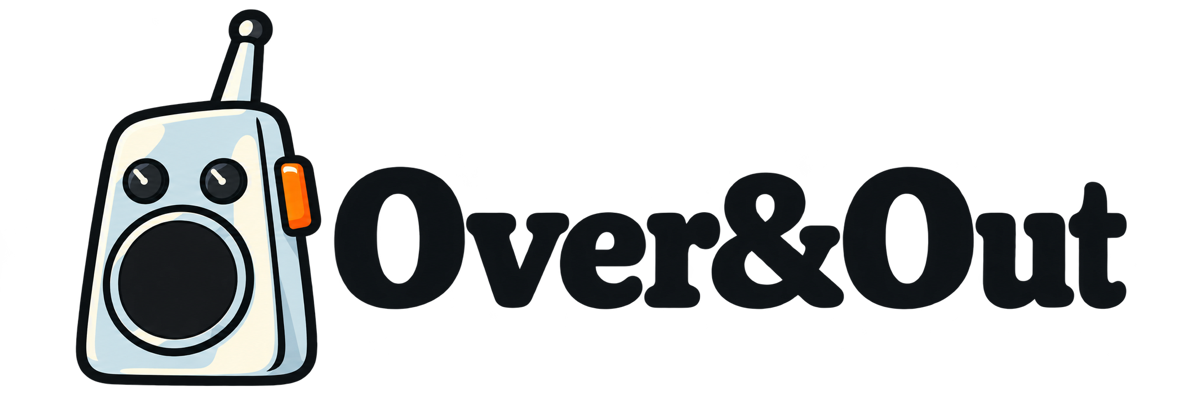
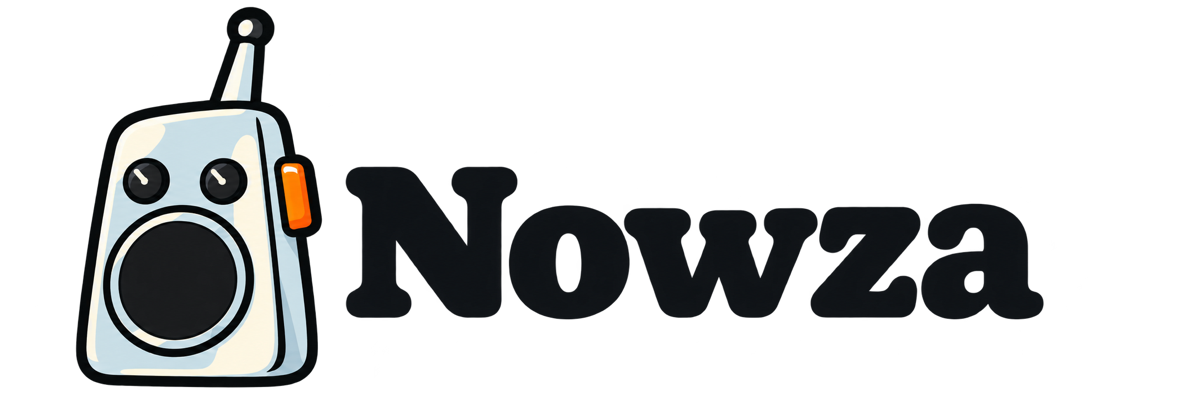
Update name-bearing artwork to Nowza

diff --git a/art/characters/preview.html b/art/characters/preview.html
@@ -1,3 +1,3 @@
-<!doctype html><html lang="en"><meta charset="utf-8"><meta name="viewport" content="width=device-width,initial-scale=1"><title>Over&Out character collection</title><style>
+<!doctype html><html lang="en"><meta charset="utf-8"><meta name="viewport" content="width=device-width,initial-scale=1"><title>Nowza character collection</title><style>
 *{box-sizing:border-box}body{margin:0;background:#fff6df;color:#10161b;font:16px system-ui,sans-serif}header{padding:36px;background:#272d50;color:#fff6df}h1{margin:0 0 12px}header p{max-width:850px;line-height:1.5}main{display:grid;grid-template-columns:repeat(auto-fit,minmax(260px,1fr));gap:24px;padding:28px}article{padding:20px;border:1px solid #d6cfbc;border-radius:16px;background:#fff}h2{font-size:20px;margin:0 0 16px}.master{background:repeating-conic-gradient(#f0f0f0 0% 25%,#fff 0% 50%) 0/20px 20px;border-radius:8px}.master img{display:block;width:100%;aspect-ratio:1;object-fit:contain}.icons{display:flex;align-items:center;justify-content:space-around;gap:10px;margin:20px 0}.phone{width:88px;border-radius:22%}.watch{width:88px;border-radius:50%}.small{width:48px;height:48px;border-radius:22%}a{color:#82400b}article p{font-size:13px;line-height:1.8}button{padding:9px 16px;background:#fff6df;color:#10161b;border:0;border-radius:8px;cursor:pointer}body.dark .master{background:#272d50}footer{padding:28px}
-</style><header><h1>Over&Out · 18 characters</h1><p>Transparent artwork, iPhone and circular Watch icon previews, and actual 48 px icons. Icon masks here are visual approximations. All files are local.</p><button onclick="document.body.classList.toggle('dark')">Toggle artwork background</button></header><main><article><h2>01 · Porcelain</h2><div class="master"><img src="01-porcelain/master.png" alt="warm light ivory housing, plain original knob eyes"></div><div class="icons"><img class="phone" src="01-porcelain/icons/icon-1024.png" alt="iPhone preview"><img class="watch" src="01-porcelain/icons/icon-1024.png" alt="Watch circular preview"><img class="small" src="01-porcelain/icons/exports/icon-48.png" alt="48 pixel preview"></div><p><a href="01-porcelain/master.png">Transparent master</a> · <a href="01-porcelain/merch/color-300dpi.png">Print PNG</a> · <a href="01-porcelain/icons/icon-1024.png">Icon</a></p></article><article><h2>02 · Honey</h2><div class="master"><img src="02-honey/master.png" alt="warm golden honey tan housing, plain original knob eyes"></div><div class="icons"><img class="phone" src="02-honey/icons/icon-1024.png" alt="iPhone preview"><img class="watch" src="02-honey/icons/icon-1024.png" alt="Watch circular preview"><img class="small" src="02-honey/icons/exports/icon-48.png" alt="48 pixel preview"></div><p><a href="02-honey/master.png">Transparent master</a> · <a href="02-honey/merch/color-300dpi.png">Print PNG</a> · <a href="02-honey/icons/icon-1024.png">Icon</a></p></article><article><h2>03 · Cocoa</h2><div class="master"><img src="03-cocoa/master.png" alt="rich deep warm cocoa brown housing, plain original knob eyes"></div><div class="icons"><img class="phone" src="03-cocoa/icons/icon-1024.png" alt="iPhone preview"><img class="watch" src="03-cocoa/icons/icon-1024.png" alt="Watch circular preview"><img class="small" src="03-cocoa/icons/exports/icon-48.png" alt="48 pixel preview"></div><p><a href="03-cocoa/master.png">Transparent master</a> · <a href="03-cocoa/merch/color-300dpi.png">Print PNG</a> · <a href="03-cocoa/icons/icon-1024.png">Icon</a></p></article><article><h2>04 · Bow &amp; lashes</h2><div class="master"><img src="04-bow-lashes/master.png" alt="porcelain ivory housing, muted rose pink bow on antenna and long eyelashes"></div><div class="icons"><img class="phone" src="04-bow-lashes/icons/icon-1024.png" alt="iPhone preview"><img class="watch" src="04-bow-lashes/icons/icon-1024.png" alt="Watch circular preview"><img class="small" src="04-bow-lashes/icons/exports/icon-48.png" alt="48 pixel preview"></div><p><a href="04-bow-lashes/master.png">Transparent master</a> · <a href="04-bow-lashes/merch/color-300dpi.png">Print PNG</a> · <a href="04-bow-lashes/icons/icon-1024.png">Icon</a></p></article><article><h2>05 · Bunny</h2><div class="master"><img src="05-bunny/master.png" alt="porcelain ivory housing, two rabbit-ear antennas with muted rose pink interiors, two ivory buck teeth descending into round speaker mouth"></div><div class="icons"><img class="phone" src="05-bunny/icons/icon-1024.png" alt="iPhone preview"><img class="watch" src="05-bunny/icons/icon-1024.png" alt="Watch circular preview"><img class="small" src="05-bunny/icons/exports/icon-48.png" alt="48 pixel preview"></div><p><a href="05-bunny/master.png">Transparent master</a> · <a href="05-bunny/merch/color-300dpi.png">Print PNG</a> · <a href="05-bunny/icons/icon-1024.png">Icon</a></p></article><article><h2>06 · Bookworm</h2><div class="master"><img src="06-bookworm/master.png" alt="COCOA dark brown housing, round indigo eyeglasses and small orange bowtie centered at bottom of speaker"></div><div class="icons"><img class="phone" src="06-bookworm/icons/icon-1024.png" alt="iPhone preview"><img class="watch" src="06-bookworm/icons/icon-1024.png" alt="Watch circular preview"><img class="small" src="06-bookworm/icons/exports/icon-48.png" alt="48 pixel preview"></div><p><a href="06-bookworm/master.png">Transparent master</a> · <a href="06-bookworm/merch/color-300dpi.png">Print PNG</a> · <a href="06-bookworm/icons/icon-1024.png">Icon</a></p></article><article><h2>07 · Mustachio</h2><div class="master"><img src="07-mustachio/master.png" alt="porcelain ivory housing, bold curled black mustache above speaker"></div><div class="icons"><img class="phone" src="07-mustachio/icons/icon-1024.png" alt="iPhone preview"><img class="watch" src="07-mustachio/icons/icon-1024.png" alt="Watch circular preview"><img class="small" src="07-mustachio/icons/exports/icon-48.png" alt="48 pixel preview"></div><p><a href="07-mustachio/master.png">Transparent master</a> · <a href="07-mustachio/merch/color-300dpi.png">Print PNG</a> · <a href="07-mustachio/icons/icon-1024.png">Icon</a></p></article><article><h2>08 · Tough guy</h2><div class="master"><img src="08-tough-guy/master.png" alt="HONEY golden tan housing, thick comically angry angled eyebrows"></div><div class="icons"><img class="phone" src="08-tough-guy/icons/icon-1024.png" alt="iPhone preview"><img class="watch" src="08-tough-guy/icons/icon-1024.png" alt="Watch circular preview"><img class="small" src="08-tough-guy/icons/exports/icon-48.png" alt="48 pixel preview"></div><p><a href="08-tough-guy/master.png">Transparent master</a> · <a href="08-tough-guy/merch/color-300dpi.png">Print PNG</a> · <a href="08-tough-guy/icons/icon-1024.png">Icon</a></p></article><article><h2>09 · Manga</h2><div class="master"><img src="09-manga/master.png" alt="porcelain ivory housing, very large tall oval manga eyes with several bright ivory highlights and stars, filling upper face, as large as approved sheet"></div><div class="icons"><img class="phone" src="09-manga/icons/icon-1024.png" alt="iPhone preview"><img class="watch" src="09-manga/icons/icon-1024.png" alt="Watch circular preview"><img class="small" src="09-manga/icons/exports/icon-48.png" alt="48 pixel preview"></div><p><a href="09-manga/master.png">Transparent master</a> · <a href="09-manga/merch/color-300dpi.png">Print PNG</a> · <a href="09-manga/icons/icon-1024.png">Icon</a></p></article><article><h2>10 · Cool cat</h2><div class="master"><img src="10-cool-cat/master.png" alt="COCOA dark brown housing, chunky dark indigo sunglasses; no cat ears"></div><div class="icons"><img class="phone" src="10-cool-cat/icons/icon-1024.png" alt="iPhone preview"><img class="watch" src="10-cool-cat/icons/icon-1024.png" alt="Watch circular preview"><img class="small" src="10-cool-cat/icons/exports/icon-48.png" alt="48 pixel preview"></div><p><a href="10-cool-cat/master.png">Transparent master</a> · <a href="10-cool-cat/merch/color-300dpi.png">Print PNG</a> · <a href="10-cool-cat/icons/icon-1024.png">Icon</a></p></article><article><h2>11 · Fox</h2><div class="master"><img src="11-fox/master.png" alt="HONEY golden tan housing, tall bushy honey fox tail with ivory tip IN PLACE OF antenna at top right, pointed fox ears at top corners, small black button nose, ivory cheek tufts. Radio silhouette remains"></div><div class="icons"><img class="phone" src="11-fox/icons/icon-1024.png" alt="iPhone preview"><img class="watch" src="11-fox/icons/icon-1024.png" alt="Watch circular preview"><img class="small" src="11-fox/icons/exports/icon-48.png" alt="48 pixel preview"></div><p><a href="11-fox/master.png">Transparent master</a> · <a href="11-fox/merch/color-300dpi.png">Print PNG</a> · <a href="11-fox/icons/icon-1024.png">Icon</a></p></article><article><h2>12 · Hi-fi</h2><div class="master"><img src="12-hi-fi/master.png" alt="HONEY golden tan housing with orange and indigo retro headphones over top and sides, original antenna visible"></div><div class="icons"><img class="phone" src="12-hi-fi/icons/icon-1024.png" alt="iPhone preview"><img class="watch" src="12-hi-fi/icons/icon-1024.png" alt="Watch circular preview"><img class="small" src="12-hi-fi/icons/exports/icon-48.png" alt="48 pixel preview"></div><p><a href="12-hi-fi/master.png">Transparent master</a> · <a href="12-hi-fi/merch/color-300dpi.png">Print PNG</a> · <a href="12-hi-fi/icons/icon-1024.png">Icon</a></p></article><article><h2>13 · Frankenstein</h2><div class="master"><img src="13-frankenstein/master.png" alt="muted sage green housing, stitched line across forehead, silver bolts sticking out of lower sides. Friendly cartoon"></div><div class="icons"><img class="phone" src="13-frankenstein/icons/icon-1024.png" alt="iPhone preview"><img class="watch" src="13-frankenstein/icons/icon-1024.png" alt="Watch circular preview"><img class="small" src="13-frankenstein/icons/exports/icon-48.png" alt="48 pixel preview"></div><p><a href="13-frankenstein/master.png">Transparent master</a> · <a href="13-frankenstein/merch/color-300dpi.png">Print PNG</a> · <a href="13-frankenstein/icons/icon-1024.png">Icon</a></p></article><article><h2>14 · Dracula</h2><div class="master"><img src="14-dracula/master.png" alt="PORCELAIN ivory housing, dark indigo eyeshadow and angled brows, two pointed ivory vampire fangs descending into round speaker mouth"></div><div class="icons"><img class="phone" src="14-dracula/icons/icon-1024.png" alt="iPhone preview"><img class="watch" src="14-dracula/icons/icon-1024.png" alt="Watch circular preview"><img class="small" src="14-dracula/icons/exports/icon-48.png" alt="48 pixel preview"></div><p><a href="14-dracula/master.png">Transparent master</a> · <a href="14-dracula/merch/color-300dpi.png">Print PNG</a> · <a href="14-dracula/icons/icon-1024.png">Icon</a></p></article><article><h2>15 · Morticia</h2><div class="master"><img src="15-morticia/master.png" alt="PORCELAIN ivory housing, lots of long center-parted flowing dark black hair wrapping both sides and trailing at base, eyelashes and subtle indigo eyeshadow, antenna peeking out above hair"></div><div class="icons"><img class="phone" src="15-morticia/icons/icon-1024.png" alt="iPhone preview"><img class="watch" src="15-morticia/icons/icon-1024.png" alt="Watch circular preview"><img class="small" src="15-morticia/icons/exports/icon-48.png" alt="48 pixel preview"></div><p><a href="15-morticia/master.png">Transparent master</a> · <a href="15-morticia/merch/color-300dpi.png">Print PNG</a> · <a href="15-morticia/icons/icon-1024.png">Icon</a></p></article><article><h2>16 · Bow &amp; lashes · Honey</h2><div class="master"><img src="16-bow-lashes-honey/master.png" alt="honey golden tan housing, muted rose pink bow on antenna and long eyelashes"></div><div class="icons"><img class="phone" src="16-bow-lashes-honey/icons/icon-1024.png" alt="iPhone preview"><img class="watch" src="16-bow-lashes-honey/icons/icon-1024.png" alt="Watch circular preview"><img class="small" src="16-bow-lashes-honey/icons/exports/icon-48.png" alt="48 pixel preview"></div><p><a href="16-bow-lashes-honey/master.png">Transparent master</a> · <a href="16-bow-lashes-honey/merch/color-300dpi.png">Print PNG</a> · <a href="16-bow-lashes-honey/icons/icon-1024.png">Icon</a></p></article><article><h2>17 · Bow &amp; lashes · Cocoa</h2><div class="master"><img src="17-bow-lashes-cocoa/master.png" alt="rich cocoa brown housing, muted rose pink bow on antenna and long eyelashes"></div><div class="icons"><img class="phone" src="17-bow-lashes-cocoa/icons/icon-1024.png" alt="iPhone preview"><img class="watch" src="17-bow-lashes-cocoa/icons/icon-1024.png" alt="Watch circular preview"><img class="small" src="17-bow-lashes-cocoa/icons/exports/icon-48.png" alt="48 pixel preview"></div><p><a href="17-bow-lashes-cocoa/master.png">Transparent master</a> · <a href="17-bow-lashes-cocoa/merch/color-300dpi.png">Print PNG</a> · <a href="17-bow-lashes-cocoa/icons/icon-1024.png">Icon</a></p></article><article><h2>18 · Pirate</h2><div class="master"><img src="18-pirate/master.png" alt="honey housing, black eyepatch on the viewer-right eye and a little Jolly Roger flying from the antenna"></div><div class="icons"><img class="phone" src="18-pirate/icons/icon-1024.png" alt="iPhone preview"><img class="watch" src="18-pirate/icons/icon-1024.png" alt="Watch circular preview"><img class="small" src="18-pirate/icons/exports/icon-48.png" alt="48 pixel preview"></div><p><a href="18-pirate/master.png">Transparent master</a> · <a href="18-pirate/merch/color-300dpi.png">Print PNG</a> · <a href="18-pirate/icons/icon-1024.png">Icon</a></p></article></main><footer><a href="README.md">Usage and print limits</a> · <a href="reference/approved-lineup.png">Approved sketch lineup</a></footer></html>
+</style><header><h1>Nowza · 18 characters</h1><p>Transparent artwork, iPhone and circular Watch icon previews, and actual 48 px icons. Icon masks here are visual approximations. All files are local.</p><button onclick="document.body.classList.toggle('dark')">Toggle artwork background</button></header><main><article><h2>01 · Porcelain</h2><div class="master"><img src="01-porcelain/master.png" alt="warm light ivory housing, plain original knob eyes"></div><div class="icons"><img class="phone" src="01-porcelain/icons/icon-1024.png" alt="iPhone preview"><img class="watch" src="01-porcelain/icons/icon-1024.png" alt="Watch circular preview"><img class="small" src="01-porcelain/icons/exports/icon-48.png" alt="48 pixel preview"></div><p><a href="01-porcelain/master.png">Transparent master</a> · <a href="01-porcelain/merch/color-300dpi.png">Print PNG</a> · <a href="01-porcelain/icons/icon-1024.png">Icon</a></p></article><article><h2>02 · Honey</h2><div class="master"><img src="02-honey/master.png" alt="warm golden honey tan housing, plain original knob eyes"></div><div class="icons"><img class="phone" src="02-honey/icons/icon-1024.png" alt="iPhone preview"><img class="watch" src="02-honey/icons/icon-1024.png" alt="Watch circular preview"><img class="small" src="02-honey/icons/exports/icon-48.png" alt="48 pixel preview"></div><p><a href="02-honey/master.png">Transparent master</a> · <a href="02-honey/merch/color-300dpi.png">Print PNG</a> · <a href="02-honey/icons/icon-1024.png">Icon</a></p></article><article><h2>03 · Cocoa</h2><div class="master"><img src="03-cocoa/master.png" alt="rich deep warm cocoa brown housing, plain original knob eyes"></div><div class="icons"><img class="phone" src="03-cocoa/icons/icon-1024.png" alt="iPhone preview"><img class="watch" src="03-cocoa/icons/icon-1024.png" alt="Watch circular preview"><img class="small" src="03-cocoa/icons/exports/icon-48.png" alt="48 pixel preview"></div><p><a href="03-cocoa/master.png">Transparent master</a> · <a href="03-cocoa/merch/color-300dpi.png">Print PNG</a> · <a href="03-cocoa/icons/icon-1024.png">Icon</a></p></article><article><h2>04 · Bow &amp; lashes</h2><div class="master"><img src="04-bow-lashes/master.png" alt="porcelain ivory housing, muted rose pink bow on antenna and long eyelashes"></div><div class="icons"><img class="phone" src="04-bow-lashes/icons/icon-1024.png" alt="iPhone preview"><img class="watch" src="04-bow-lashes/icons/icon-1024.png" alt="Watch circular preview"><img class="small" src="04-bow-lashes/icons/exports/icon-48.png" alt="48 pixel preview"></div><p><a href="04-bow-lashes/master.png">Transparent master</a> · <a href="04-bow-lashes/merch/color-300dpi.png">Print PNG</a> · <a href="04-bow-lashes/icons/icon-1024.png">Icon</a></p></article><article><h2>05 · Bunny</h2><div class="master"><img src="05-bunny/master.png" alt="porcelain ivory housing, two rabbit-ear antennas with muted rose pink interiors, two ivory buck teeth descending into round speaker mouth"></div><div class="icons"><img class="phone" src="05-bunny/icons/icon-1024.png" alt="iPhone preview"><img class="watch" src="05-bunny/icons/icon-1024.png" alt="Watch circular preview"><img class="small" src="05-bunny/icons/exports/icon-48.png" alt="48 pixel preview"></div><p><a href="05-bunny/master.png">Transparent master</a> · <a href="05-bunny/merch/color-300dpi.png">Print PNG</a> · <a href="05-bunny/icons/icon-1024.png">Icon</a></p></article><article><h2>06 · Bookworm</h2><div class="master"><img src="06-bookworm/master.png" alt="COCOA dark brown housing, round indigo eyeglasses and small orange bowtie centered at bottom of speaker"></div><div class="icons"><img class="phone" src="06-bookworm/icons/icon-1024.png" alt="iPhone preview"><img class="watch" src="06-bookworm/icons/icon-1024.png" alt="Watch circular preview"><img class="small" src="06-bookworm/icons/exports/icon-48.png" alt="48 pixel preview"></div><p><a href="06-bookworm/master.png">Transparent master</a> · <a href="06-bookworm/merch/color-300dpi.png">Print PNG</a> · <a href="06-bookworm/icons/icon-1024.png">Icon</a></p></article><article><h2>07 · Mustachio</h2><div class="master"><img src="07-mustachio/master.png" alt="porcelain ivory housing, bold curled black mustache above speaker"></div><div class="icons"><img class="phone" src="07-mustachio/icons/icon-1024.png" alt="iPhone preview"><img class="watch" src="07-mustachio/icons/icon-1024.png" alt="Watch circular preview"><img class="small" src="07-mustachio/icons/exports/icon-48.png" alt="48 pixel preview"></div><p><a href="07-mustachio/master.png">Transparent master</a> · <a href="07-mustachio/merch/color-300dpi.png">Print PNG</a> · <a href="07-mustachio/icons/icon-1024.png">Icon</a></p></article><article><h2>08 · Tough guy</h2><div class="master"><img src="08-tough-guy/master.png" alt="HONEY golden tan housing, thick comically angry angled eyebrows"></div><div class="icons"><img class="phone" src="08-tough-guy/icons/icon-1024.png" alt="iPhone preview"><img class="watch" src="08-tough-guy/icons/icon-1024.png" alt="Watch circular preview"><img class="small" src="08-tough-guy/icons/exports/icon-48.png" alt="48 pixel preview"></div><p><a href="08-tough-guy/master.png">Transparent master</a> · <a href="08-tough-guy/merch/color-300dpi.png">Print PNG</a> · <a href="08-tough-guy/icons/icon-1024.png">Icon</a></p></article><article><h2>09 · Manga</h2><div class="master"><img src="09-manga/master.png" alt="porcelain ivory housing, very large tall oval manga eyes with several bright ivory highlights and stars, filling upper face, as large as approved sheet"></div><div class="icons"><img class="phone" src="09-manga/icons/icon-1024.png" alt="iPhone preview"><img class="watch" src="09-manga/icons/icon-1024.png" alt="Watch circular preview"><img class="small" src="09-manga/icons/exports/icon-48.png" alt="48 pixel preview"></div><p><a href="09-manga/master.png">Transparent master</a> · <a href="09-manga/merch/color-300dpi.png">Print PNG</a> · <a href="09-manga/icons/icon-1024.png">Icon</a></p></article><article><h2>10 · Cool cat</h2><div class="master"><img src="10-cool-cat/master.png" alt="COCOA dark brown housing, chunky dark indigo sunglasses; no cat ears"></div><div class="icons"><img class="phone" src="10-cool-cat/icons/icon-1024.png" alt="iPhone preview"><img class="watch" src="10-cool-cat/icons/icon-1024.png" alt="Watch circular preview"><img class="small" src="10-cool-cat/icons/exports/icon-48.png" alt="48 pixel preview"></div><p><a href="10-cool-cat/master.png">Transparent master</a> · <a href="10-cool-cat/merch/color-300dpi.png">Print PNG</a> · <a href="10-cool-cat/icons/icon-1024.png">Icon</a></p></article><article><h2>11 · Fox</h2><div class="master"><img src="11-fox/master.png" alt="HONEY golden tan housing, tall bushy honey fox tail with ivory tip IN PLACE OF antenna at top right, pointed fox ears at top corners, small black button nose, ivory cheek tufts. Radio silhouette remains"></div><div class="icons"><img class="phone" src="11-fox/icons/icon-1024.png" alt="iPhone preview"><img class="watch" src="11-fox/icons/icon-1024.png" alt="Watch circular preview"><img class="small" src="11-fox/icons/exports/icon-48.png" alt="48 pixel preview"></div><p><a href="11-fox/master.png">Transparent master</a> · <a href="11-fox/merch/color-300dpi.png">Print PNG</a> · <a href="11-fox/icons/icon-1024.png">Icon</a></p></article><article><h2>12 · Hi-fi</h2><div class="master"><img src="12-hi-fi/master.png" alt="HONEY golden tan housing with orange and indigo retro headphones over top and sides, original antenna visible"></div><div class="icons"><img class="phone" src="12-hi-fi/icons/icon-1024.png" alt="iPhone preview"><img class="watch" src="12-hi-fi/icons/icon-1024.png" alt="Watch circular preview"><img class="small" src="12-hi-fi/icons/exports/icon-48.png" alt="48 pixel preview"></div><p><a href="12-hi-fi/master.png">Transparent master</a> · <a href="12-hi-fi/merch/color-300dpi.png">Print PNG</a> · <a href="12-hi-fi/icons/icon-1024.png">Icon</a></p></article><article><h2>13 · Frankenstein</h2><div class="master"><img src="13-frankenstein/master.png" alt="muted sage green housing, stitched line across forehead, silver bolts sticking out of lower sides. Friendly cartoon"></div><div class="icons"><img class="phone" src="13-frankenstein/icons/icon-1024.png" alt="iPhone preview"><img class="watch" src="13-frankenstein/icons/icon-1024.png" alt="Watch circular preview"><img class="small" src="13-frankenstein/icons/exports/icon-48.png" alt="48 pixel preview"></div><p><a href="13-frankenstein/master.png">Transparent master</a> · <a href="13-frankenstein/merch/color-300dpi.png">Print PNG</a> · <a href="13-frankenstein/icons/icon-1024.png">Icon</a></p></article><article><h2>14 · Dracula</h2><div class="master"><img src="14-dracula/master.png" alt="PORCELAIN ivory housing, dark indigo eyeshadow and angled brows, two pointed ivory vampire fangs descending into round speaker mouth"></div><div class="icons"><img class="phone" src="14-dracula/icons/icon-1024.png" alt="iPhone preview"><img class="watch" src="14-dracula/icons/icon-1024.png" alt="Watch circular preview"><img class="small" src="14-dracula/icons/exports/icon-48.png" alt="48 pixel preview"></div><p><a href="14-dracula/master.png">Transparent master</a> · <a href="14-dracula/merch/color-300dpi.png">Print PNG</a> · <a href="14-dracula/icons/icon-1024.png">Icon</a></p></article><article><h2>15 · Morticia</h2><div class="master"><img src="15-morticia/master.png" alt="PORCELAIN ivory housing, lots of long center-parted flowing dark black hair wrapping both sides and trailing at base, eyelashes and subtle indigo eyeshadow, antenna peeking out above hair"></div><div class="icons"><img class="phone" src="15-morticia/icons/icon-1024.png" alt="iPhone preview"><img class="watch" src="15-morticia/icons/icon-1024.png" alt="Watch circular preview"><img class="small" src="15-morticia/icons/exports/icon-48.png" alt="48 pixel preview"></div><p><a href="15-morticia/master.png">Transparent master</a> · <a href="15-morticia/merch/color-300dpi.png">Print PNG</a> · <a href="15-morticia/icons/icon-1024.png">Icon</a></p></article><article><h2>16 · Bow &amp; lashes · Honey</h2><div class="master"><img src="16-bow-lashes-honey/master.png" alt="honey golden tan housing, muted rose pink bow on antenna and long eyelashes"></div><div class="icons"><img class="phone" src="16-bow-lashes-honey/icons/icon-1024.png" alt="iPhone preview"><img class="watch" src="16-bow-lashes-honey/icons/icon-1024.png" alt="Watch circular preview"><img class="small" src="16-bow-lashes-honey/icons/exports/icon-48.png" alt="48 pixel preview"></div><p><a href="16-bow-lashes-honey/master.png">Transparent master</a> · <a href="16-bow-lashes-honey/merch/color-300dpi.png">Print PNG</a> · <a href="16-bow-lashes-honey/icons/icon-1024.png">Icon</a></p></article><article><h2>17 · Bow &amp; lashes · Cocoa</h2><div class="master"><img src="17-bow-lashes-cocoa/master.png" alt="rich cocoa brown housing, muted rose pink bow on antenna and long eyelashes"></div><div class="icons"><img class="phone" src="17-bow-lashes-cocoa/icons/icon-1024.png" alt="iPhone preview"><img class="watch" src="17-bow-lashes-cocoa/icons/icon-1024.png" alt="Watch circular preview"><img class="small" src="17-bow-lashes-cocoa/icons/exports/icon-48.png" alt="48 pixel preview"></div><p><a href="17-bow-lashes-cocoa/master.png">Transparent master</a> · <a href="17-bow-lashes-cocoa/merch/color-300dpi.png">Print PNG</a> · <a href="17-bow-lashes-cocoa/icons/icon-1024.png">Icon</a></p></article><article><h2>18 · Pirate</h2><div class="master"><img src="18-pirate/master.png" alt="honey housing, black eyepatch on the viewer-right eye and a little Jolly Roger flying from the antenna"></div><div class="icons"><img class="phone" src="18-pirate/icons/icon-1024.png" alt="iPhone preview"><img class="watch" src="18-pirate/icons/icon-1024.png" alt="Watch circular preview"><img class="small" src="18-pirate/icons/exports/icon-48.png" alt="48 pixel preview"></div><p><a href="18-pirate/master.png">Transparent master</a> · <a href="18-pirate/merch/color-300dpi.png">Print PNG</a> · <a href="18-pirate/icons/icon-1024.png">Icon</a></p></article></main><footer><a href="README.md">Usage and print limits</a> · <a href="reference/approved-lineup.png">Approved sketch lineup</a></footer></html>

diff --git a/art/preview.html b/art/preview.html
@@ -1,8 +1,8 @@
-<!doctype html><html lang="en"><meta charset="utf-8"><meta name="viewport" content="width=device-width,initial-scale=1"><title>Over&Out — artwork library</title><style>
+<!doctype html><html lang="en"><meta charset="utf-8"><meta name="viewport" content="width=device-width,initial-scale=1"><title>Nowza — artwork library</title><style>
 *{box-sizing:border-box}body{margin:0;background:#f6f2e8;color:#10161b;font:16px/1.5 system-ui,sans-serif}main{max-width:1150px;margin:auto;padding:40px 28px}h1{font:700 52px Georgia,serif;margin:0}h2{font-size:22px;margin:32px 0 14px}p{color:#555d67;margin-top:8px}.grid{display:grid;grid-template-columns:repeat(3,1fr);gap:18px}.card{background:white;border:1px solid #deddd6;border-radius:18px;padding:22px;overflow:hidden}.stage{display:flex;align-items:center;justify-content:center;min-height:270px;border-radius:12px}.stage img{max-width:100%;max-height:270px;object-fit:contain}.dark{background:#272d50}.ink{background:#fff6df}.icon{width:220px;border-radius:22.5%}.watch{width:220px;border-radius:50%}.sizes{display:flex;gap:24px;align-items:center;flex-wrap:wrap;padding:20px 0}.sizes figure{margin:0;text-align:center}.sizes img{display:block}.sizes figcaption{font-size:12px;margin-top:8px;color:#58606a}.wide{grid-column:span 2}.wide .stage{min-height:220px}.wide img{max-height:210px}.label{font-weight:650;margin-top:16px}.sub{font-size:13px;color:#636974}.swatches{display:flex;gap:18px;flex-wrap:wrap}.swatches span{display:block;width:130px;height:60px;border-radius:10px;border:1px solid #ddd}.swatches code{font-size:12px}a{color:#314d87}footer{padding:30px 0;color:#68707a;font-size:13px}@media(max-width:750px){.grid{grid-template-columns:1fr}.wide{grid-column:auto}h1{font-size:40px}.stage{min-height:220px}}
-</style><main><h1>Over&amp;Out</h1><p>Artwork library · Chrome Tomorrow · September 2026</p><p><a href="README.md">Usage guide</a> · <a href="manifest.json">Asset manifest</a></p>
+</style><main><h1>Nowza</h1><p>Artwork library · Chrome Tomorrow · September 2026</p><p><a href="README.md">Usage guide</a> · <a href="manifest.json">Asset manifest</a></p>
 <h2>App icons</h2><div class="grid"><div class="card"><div class="stage"><img class="icon" src="icons/iPhone.xcassets/AppIcon.appiconset/OverAndOut-1024.png" alt="iPhone icon"></div><div class="label">iPhone</div><div class="sub">Approximate system mask preview; source is square.</div></div><div class="card"><div class="stage"><img class="watch" src="icons/Watch.xcassets/AppIcon.appiconset/OverAndOut-1024.png" alt="Watch icon"></div><div class="label">Apple Watch</div><div class="sub">Circular mask preview; source is square.</div></div><div class="card"><div class="stage dark"><img src="masters/mascot-color.png" alt="Standalone transparent mascot"></div><div class="label">Transparent mascot</div><div class="sub">1254 × 1254 native artwork.</div></div></div>
 <div class="sizes"><figure><img class="icon" width="60" height="60" style="width:60px;height:60px" src="icons/exports/iphone-180.png" alt="iPhone 60 point preview"><figcaption>iPhone · 60 pt</figcaption></figure><figure><img class="icon" width="40" height="40" style="width:40px;height:40px" src="icons/exports/iphone-120.png" alt="iPhone 40 point preview"><figcaption>iPhone · 40 pt</figcaption></figure><figure><img class="watch" width="54" height="54" style="width:54px;height:54px" src="icons/exports/watch-108.png" alt="Watch 54 point preview"><figcaption>Watch · 54 pt</figcaption></figure><figure><img class="watch" width="40" height="40" style="width:40px;height:40px" src="icons/exports/watch-80.png" alt="Watch 40 point preview"><figcaption>Watch · 40 pt</figcaption></figure><figure><img class="watch" width="24" height="24" style="width:24px;height:24px" src="icons/exports/watch-48.png" alt="Watch 24 point preview"><figcaption>Watch · 24 pt</figcaption></figure></div>
-<h2>Screens &amp; documentation</h2><div class="grid"><div class="card"><div class="stage dark"><img src="screens/about-welcome-1024.png" alt="Stacked Over and Out brand artwork"></div><div class="label">Welcome / About artwork</div><div class="sub">Opaque indigo composition. Use the separate mascot for adaptive screen layouts.</div></div><div class="card wide"><div class="stage ink"><img src="documentation/over-and-out-horizontal-1200.png" alt="Over and Out horizontal logo"></div><div class="label">Horizontal brand lockup</div><div class="sub">Transparent PNG for light backgrounds. Exports at 600, 1200 and 1800 px wide.</div></div></div>
+<h2>Screens &amp; documentation</h2><div class="grid"><div class="card"><div class="stage dark"><img src="screens/about-welcome-1024.png" alt="Stacked Nowza brand artwork"></div><div class="label">Welcome / About artwork</div><div class="sub">Opaque indigo composition. Use the separate mascot for adaptive screen layouts.</div></div><div class="card wide"><div class="stage ink"><img src="documentation/over-and-out-horizontal-1200.png" alt="Nowza horizontal logo"></div><div class="label">Horizontal brand lockup</div><div class="sub">Transparent PNG for light backgrounds. Exports at 600, 1200 and 1800 px wide.</div></div></div>
 <h2>Merchandise</h2><div class="grid"><div class="card"><div class="stage ink"><img src="merch/mascot-color-300dpi.png" alt="Full color merchandise mascot"></div><div class="label">Full color</div><div class="sub">Transparent, 300 DPI metadata, native 1254 px square.</div></div><div class="card"><div class="stage"><img src="merch/mascot-ink-black-300dpi.png" alt="Black ink merchandise mascot"></div><div class="label">Black ink adaptation</div><div class="sub">Transparent line artwork for light stock. Printer separation/proof required.</div></div><div class="card"><div class="stage dark"><img src="merch/mascot-color-300dpi.png" alt="Full color mascot on dark indigo"></div><div class="label">On dark stock</div><div class="sub">Color artwork on indigo; printer may need a white underbase.</div></div></div>
 <h2>Palette targets</h2><div class="swatches"><div><span style="background:#272d50"></span>Indigo<br><code>#272D50</code></div><div><span style="background:#fff6df"></span>Ivory<br><code>#FFF6DF</code></div><div><span style="background:#10161b"></span>Ink<br><code>#10161B</code></div><div><span style="background:#bed5df"></span>Silver blue<br><code>#BED5DF</code></div><div><span style="background:#ff8b1a"></span>Talk orange<br><code>#FF8B1A</code></div></div><footer>Illustrations generated using the built-in image tool. Raster assets, not vector originals. Mask previews are illustrative. See README for native print sizes and integration notes.</footer></main></html>

diff --git a/app/iOS/AboutView.swift b/app/iOS/AboutView.swift
@@ -24,7 +24,7 @@ struct AboutView: View {
                             .scaledToFit()
                             .frame(width: 160, height: 160)
                             .clipShape(RoundedRectangle(cornerRadius: 34, style: .continuous))
-                            .accessibilityLabel("Over&Out")
+                            .accessibilityLabel("Nowza")
                         Text("Watch Walkie Talkie")
                             .font(.title3.weight(.semibold))
                             .padding(.top, 8)

diff --git a/web/public/invite.html b/web/public/invite.html
@@ -18,7 +18,7 @@
 </head>
 <body>
   <header class="masthead">
-    <a href="/"><img src="/img/brand-512.jpg" srcset="/img/brand-512.jpg 2x, /img/brand-768.jpg 3x" alt="Over&amp;Out" width="176" height="176"></a>
+    <a href="/"><img src="/img/brand-512.jpg" srcset="/img/brand-512.jpg 2x, /img/brand-768.jpg 3x" alt="Nowza" width="176" height="176"></a>
   </header>
   <main>
     <h1>You've been invited to talk on Over&amp;Out</h1>

diff --git a/web/public/index.html b/web/public/index.html
@@ -16,7 +16,7 @@
 </head>
 <body>
   <header class="masthead">
-    <a href="/"><img src="/img/brand-512.jpg" srcset="/img/brand-512.jpg 2x, /img/brand-768.jpg 3x" alt="Over&amp;Out" width="176" height="176"></a>
+    <a href="/"><img src="/img/brand-512.jpg" srcset="/img/brand-512.jpg 2x, /img/brand-768.jpg 3x" alt="Nowza" width="176" height="176"></a>
   </header>
   <main>
     <h1>A walkie-talkie for iPhone and Apple Watch</h1>

diff --git a/web/public/privacy.html b/web/public/privacy.html
@@ -13,7 +13,7 @@
 </head>
 <body>
   <header class="masthead">
-    <a href="/"><img src="/img/brand-512.jpg" srcset="/img/brand-512.jpg 2x, /img/brand-768.jpg 3x" alt="Over&amp;Out" width="176" height="176"></a>
+    <a href="/"><img src="/img/brand-512.jpg" srcset="/img/brand-512.jpg 2x, /img/brand-768.jpg 3x" alt="Nowza" width="176" height="176"></a>
   </header>
   <main>
     <h1>Privacy policy</h1>

diff --git a/web/public/terms.html b/web/public/terms.html
@@ -13,7 +13,7 @@
 </head>
 <body>
   <header class="masthead">
-    <a href="/"><img src="/img/brand-512.jpg" srcset="/img/brand-512.jpg 2x, /img/brand-768.jpg 3x" alt="Over&amp;Out" width="176" height="176"></a>
+    <a href="/"><img src="/img/brand-512.jpg" srcset="/img/brand-512.jpg 2x, /img/brand-768.jpg 3x" alt="Nowza" width="176" height="176"></a>
   </header>
   <main>
     <h1>Terms of Use</h1>

diff --git a/web/public/support.html b/web/public/support.html
@@ -13,7 +13,7 @@
 </head>
 <body>
   <header class="masthead">
-    <a href="/"><img src="/img/brand-512.jpg" srcset="/img/brand-512.jpg 2x, /img/brand-768.jpg 3x" alt="Over&amp;Out" width="176" height="176"></a>
+    <a href="/"><img src="/img/brand-512.jpg" srcset="/img/brand-512.jpg 2x, /img/brand-768.jpg 3x" alt="Nowza" width="176" height="176"></a>
   </header>
   <main>
     <h1>Support</h1>

diff --git a/app/iOS/RootView.swift b/app/iOS/RootView.swift
@@ -99,7 +99,7 @@ struct Masthead: View {
             .frame(maxWidth: .infinity)
             .padding(.bottom, 4)
             .background(Brand.artIndigo.ignoresSafeArea(edges: .top))
-            .accessibilityLabel("Over&Out")
+            .accessibilityLabel("Nowza")
             .accessibilityAddTraits(.isHeader)
     }
 }

diff --git a/HANDOFF.md b/HANDOFF.md
@@ -4,6 +4,8 @@ Read this first. Over&Out: Watch Walkie Talkie replaces Apple's Watch Walkie-Tal
 
 ## Start here
 
+**Newest (2026-10-09): Nowza name-bearing artwork refreshed locally.** The stacked and horizontal wordmark masters now say **Nowza**, retaining the radio mascot and palette. Updated all 18 master/export images used by the iPhone/Watch `OverAndOutBrand` catalogs, welcome/About artwork, website mastheads, documentation logos and merchandise; legacy filenames and internal identifiers remain stable. Mascot variants and app icons have no lettering and are unchanged. `art/export-brand.sh` reproduces the exports; prompts, hashes and checks are recorded in `art/GENERATION.md`, `art/manifest.json`, `art/rename-validation.json` and `art/VALIDATION.md`. Image accessibility labels and art preview titles now match. Feasibility doc's October 9 rename decision includes the visual design decision and checks. **Checked:** full Swift 6 Debug simulator build (iPhone, Watch, notification extension), no Swift warnings/errors; paired simulator launch and visual inspection of the iPhone welcome masthead; transparency, 300 DPI merch metadata, export dimensions and catalog/preview references. **Next:** retake old-name Store screenshots after the app-wide text/display-name rename (`RENAME_CHECKLIST.md`); verify on devices with the next separately authorized TestFlight build. **Delivery:** branch `codex/nowza-artwork` for PR review (Steve authorized commit and PR). No deployment or upload. Other rename work and Store copy edits remain separate.
+
 **Newest (2026-10-09, afternoon): E2EE PR D and the stuck-Talk fix are released (Steve's OK).** PRs #59 and #60 merged (`626e92b`). **TestFlight build 256 (`626e92b`) is in "House"** with What to Test notes; not submitted to Early Testers (Steve wants device tests first). **Deployed:** `MINIMUM_BUILDS='{"ios":256,"watchos":256}'` in `deploy/gcp/config.sh`; the API, the stats and stats-rolling jobs and Ops serve `626e92b` (`/v2/config`: `audioFormats [2]`, minimum 256); the relay group serves `65f8f29` (the App Store copy commit on top; same server code), and its Test Bot started with its keys; the website is live (privacy policy effective October 9, 2026; support page entries). **Early Testers (builds 216 and 208) can no longer talk** until build 256 is approved for them: Steve chose to deploy anyway. **Regression found right after the deploy:** the Canary sends `x-oao-build: 1`, which the new minimum refuses at admission ("connect: the connection failed" at 18:46 UTC; last pass 18:32, 1,399 ms). Fixed in PR #61 (`6fd6c82`): the service's own clients (Canary, `bot.ts`, the test client) say `SERVICE_CLIENT_BUILD` (999999); `ops.test.ts` runs the Canary under minimum 256 (it fails with the old header); perf budgets for the two `receiver_bytes_up` metrics rose by those 5 bytes. **The API, the stats and stats-rolling jobs and Ops now serve `6fd6c82`** (Steve's OK); the relay stays on `65f8f29` (no relay change). The Canary passed again at 20:32 UTC (1,454 ms; 1,399 ms before the deploy). The 20:17 run still failed because it started before the job's image was updated. **Next:** device runs on 256 (watch tap → first audio, app closed and open; locked-iPhone push → first audio with Ring Me On = iPhone; the iPhone taking over a watch conversation), run-analyst on each; then `asc.ts beta-review 256`; rotate `test-bot-e2ee` by 2026-11-07.
 
 **Newest (2026-10-09): Public Store copy updated for end-to-end encrypted voice.** `deploy/appstore/product-page-copy.md` now has the subtitle, promotional text, description and keywords for launch. The promotional text uses 169/170 characters and says that 256-bit end-to-end encryption protects voice, private keys stay on devices, and the relay cannot decode audio. The description makes the same relay claim. The internal note records the key-directory substitution risk and the server-side Test Bot exception, so it does not assert that every possible server action is unable to listen. PR D is merged into `main` but the enforcement rollout, device checks, privacy-policy alignment and App Privacy answers remain before entering the copy in App Store Connect. No deployment, TestFlight upload or App Store Connect change was made for this copy update.

diff --git a/art/GENERATION.md b/art/GENERATION.md
@@ -29,3 +29,15 @@ Create a clean horizontal brand lockup for Over&Out using the supplied transpare
 ### screenPrompt
 
 Create a clean finished square brand artwork for an Over&Out app welcome or About screen. OPAQUE deep indigo #272D50 background across the entire canvas, no transparency. Center the exact mascot from the first reference above the exact wordmark "Over&Out". Keep the source mascot's proportions and identity, silver and ivory tapered radio body, small dark rotary knob eyes with cream diagonal indicators, enormous dark circular speaker mouth, angled antenna, orange right-side talk button. Match the second reference's friendly bold slab-serif wordmark but render the text in SOLID WARM IVORY. Perfect smooth undistressed lettering, clean counters, no black outlines around text, no shadows or speckling, no vintage texture. Spell exactly "Over&Out". Mascot occupies upper central area; leave a visible gap before wordmark. Entire composition fits in central 78% of canvas, with generous clear indigo margins on all four sides. Flat sharp cartoon source aesthetic. No other text, border, rounded-square mask, device frame, buttons, interface, or added symbols. Single high resolution square image.
+
+## Nowza rename — October 9, 2026
+
+The built-in image generation tool edited only the name-bearing artwork from the existing two masters. The stacked master remains 1254 × 1254, and the transparent horizontal master remains 2172 × 724. No CLI fallback was used. `export-brand.sh` exports the two resulting masters with macOS `sips` and refreshes the copies consumed by the apps and website. Earlier prompts above and reference boards record the original product name.
+
+### Stacked rename prompt
+
+Use case: text-localization. Edit this existing square brand artwork for a product rename. Replace ONLY the ivory text 'Over&Out' beneath the mascot with the exact name 'Nowza' (capital N, lowercase o w z a, five letters). Match the original friendly bold rounded slab-serif display lettering, same cap height, smooth ivory fill, no outlines or texture. Center Nowza horizontally beneath the mascot; its shorter natural word width is intentional. Keep mascot drawing, size, position, black knob eyes, large circular speaker mouth, antenna, orange button, all colors, indigo background shading and composition unchanged. Preserve the square canvas and margins. No ampersand, no tagline, no other lettering, no new props, no redesign.
+
+### Horizontal rename prompt
+
+Use case: text-localization. Edit this existing transparent horizontal logo for a product rename. Replace ONLY 'Over&Out' with exact text 'Nowza' (capital N then lowercase o w z a). Preserve the original friendly bold rounded slab-serif typography, near-black ink, smooth counters, and original letter height. Keep Nowza vertically aligned with the reference wordmark, to the right of the unchanged mascot. Shorter natural word width is intentional, generous clear margins. Preserve mascot drawing, size and position on left, silver/ivory colors, antenna, knob eyes, huge speaker mouth, orange button, linework and proportions exactly. Preserve wide 3:1 canvas and genuine alpha transparency. No ampersand, no tagline, no additional text, no background, no badge, no redesign.

diff --git a/art/VALIDATION.md b/art/VALIDATION.md
@@ -1,4 +1,17 @@
-# Asset validation — September 27, 2026
+# Asset validation
+
+## Nowza wordmarks — October 9, 2026
+
+- Replaced both name-bearing masters and refreshed their exports: 18 images across `art/`, the iPhone and Watch catalogs, and website logos. `rename-validation.json` records the affected paths; 337 other inventoried images are unchanged.
+- The stacked master is opaque RGB, 1254 × 1254. Its welcome/About export is 1024 × 1024; app catalog exports remain 256/512/768 px at 1×/2×/3×.
+- The horizontal master is RGBA, 2172 × 724, with genuine transparency. Documentation exports retain alpha at 600/1200/1800 px wide. The merch copy retains the master's exact pixels with 300 DPI metadata; no master was enlarged.
+- iPhone and Watch catalog copies match the screen-art exports byte for byte. Catalog and preview references resolve. `manifest.json` records current dimensions, modes, DPI and hashes for all 42 production art assets.
+- The full iPhone, Watch and notification-extension Debug simulator build succeeded under Swift 6 with no Swift compiler warnings or errors. Xcode emitted its existing AppIntents metadata-skipped warnings.
+- Installed and launched an isolated preview build on paired iPhone 18 Pro Max / Series 12 simulators with a disposable local relay/API configured. The iPhone welcome screen's new masthead was visually checked at its actual layout size. No audio-path code changed; no latency measurement or device/TestFlight verification was performed.
+- Product-name accessibility labels match the new artwork. Legacy filenames and Xcode identifiers remain stable. Mascots and app icons contain no product lettering and are unchanged; reference boards and original generation prompts remain historical.
+- Captured App Store screenshots that contain the old name need fresh captures after the full app text and display-name rename (tracked in `RENAME_CHECKLIST.md`). No website deployment or App Store upload was performed.
+
+## Original collection — September 27, 2026
 
 - All 41 PNG files decoded successfully; native dimensions, color modes, DPI and SHA-256 hashes are recorded in `manifest.json`.
 - Both app icon masters are exactly 1024 × 1024, RGB without alpha, opaque to all four corners.
